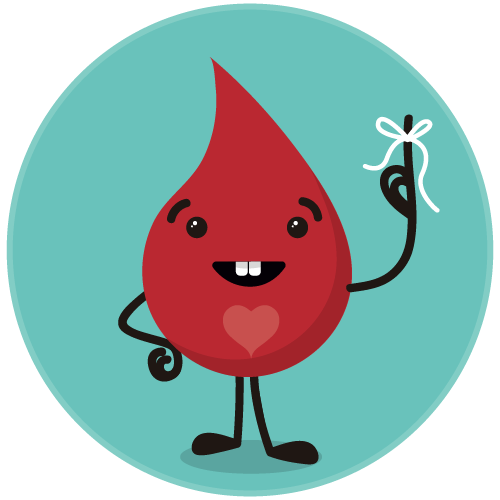
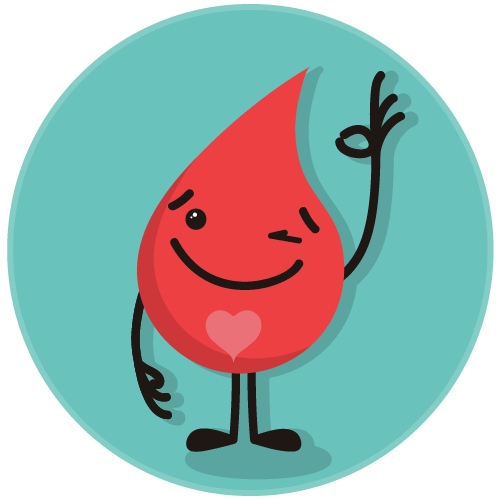
Donación de sangre - Landing

diff --git a/src/proyectos/argentina/estatico/donacion-sangre/index.html b/src/proyectos/argentina/estatico/donacion-sangre/index.html
@@ -97,7 +97,7 @@ layout: argentina
     </div>
 </section>
 
-<section>
+<section class="p-y-0">
     <div class="container">
         <div class="row docs-colores text-center">
             <div class="col-md-10 col-md-offset-1">
@@ -151,7 +151,7 @@ layout: argentina
     <div class="container">
         <div class="row text-center">
 
-            <div class="row m-t-4">
+            <div class="row m-t-2">
 
                 <div class="col-md-4">
                     <!--<i class="text-danger fa-5x fa fa-clock-o"></i>-->
@@ -187,7 +187,7 @@ layout: argentina
                     <div class="panel-body">
                         <div class="media">
                             <div class="media-left">
-                                <img src="img/gotita_1.png" style="width: 150px;" alt="gotita pasa de una mana a otra">
+                                <img src="img/gotita_manos.png" style="width: 150px;" alt="gotita pasa de una mana a otra">
                             </div>
                             <div class="media-body">
                                 <h3>Enterate si podés salvar vidas</h3>
